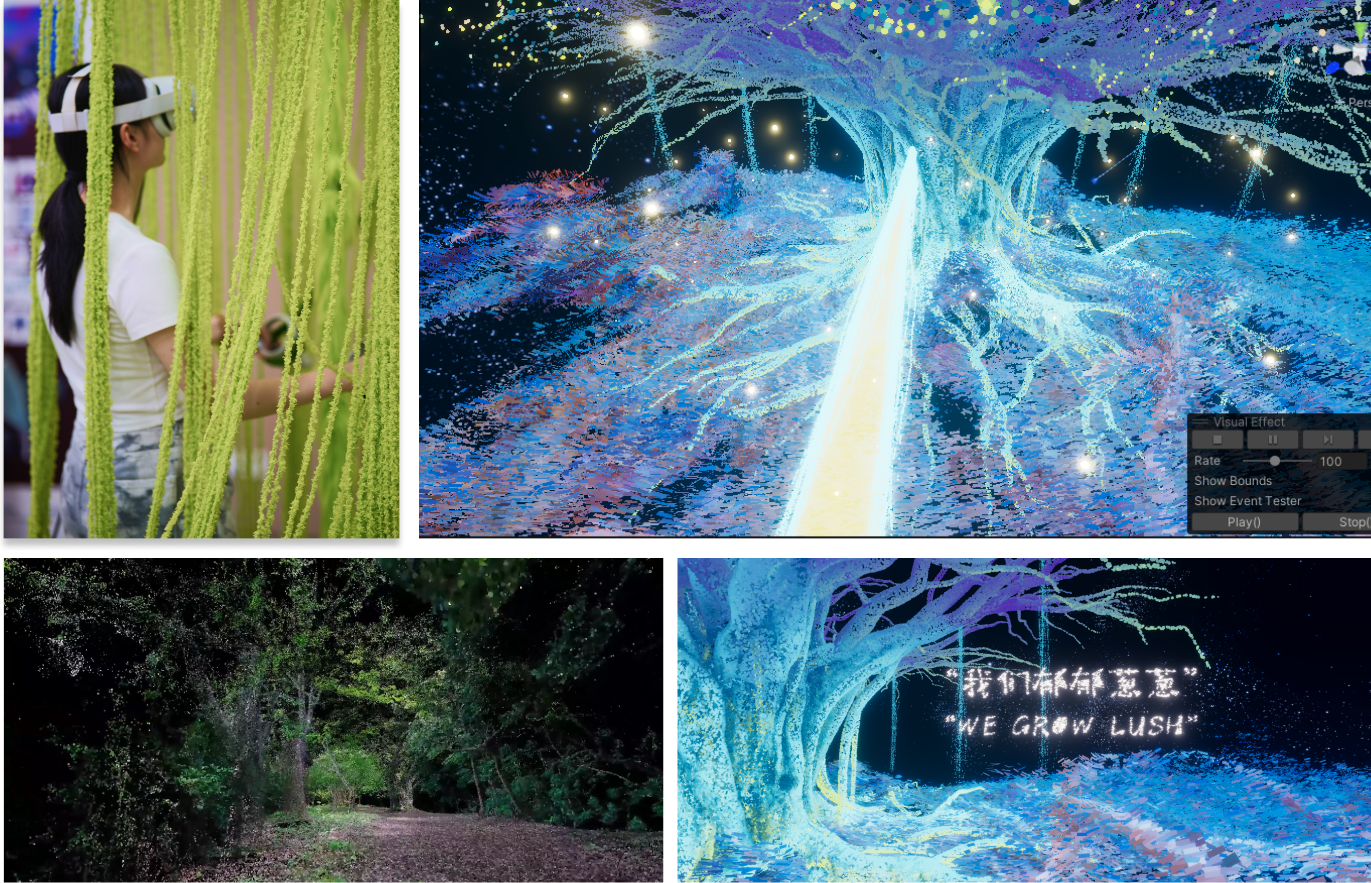
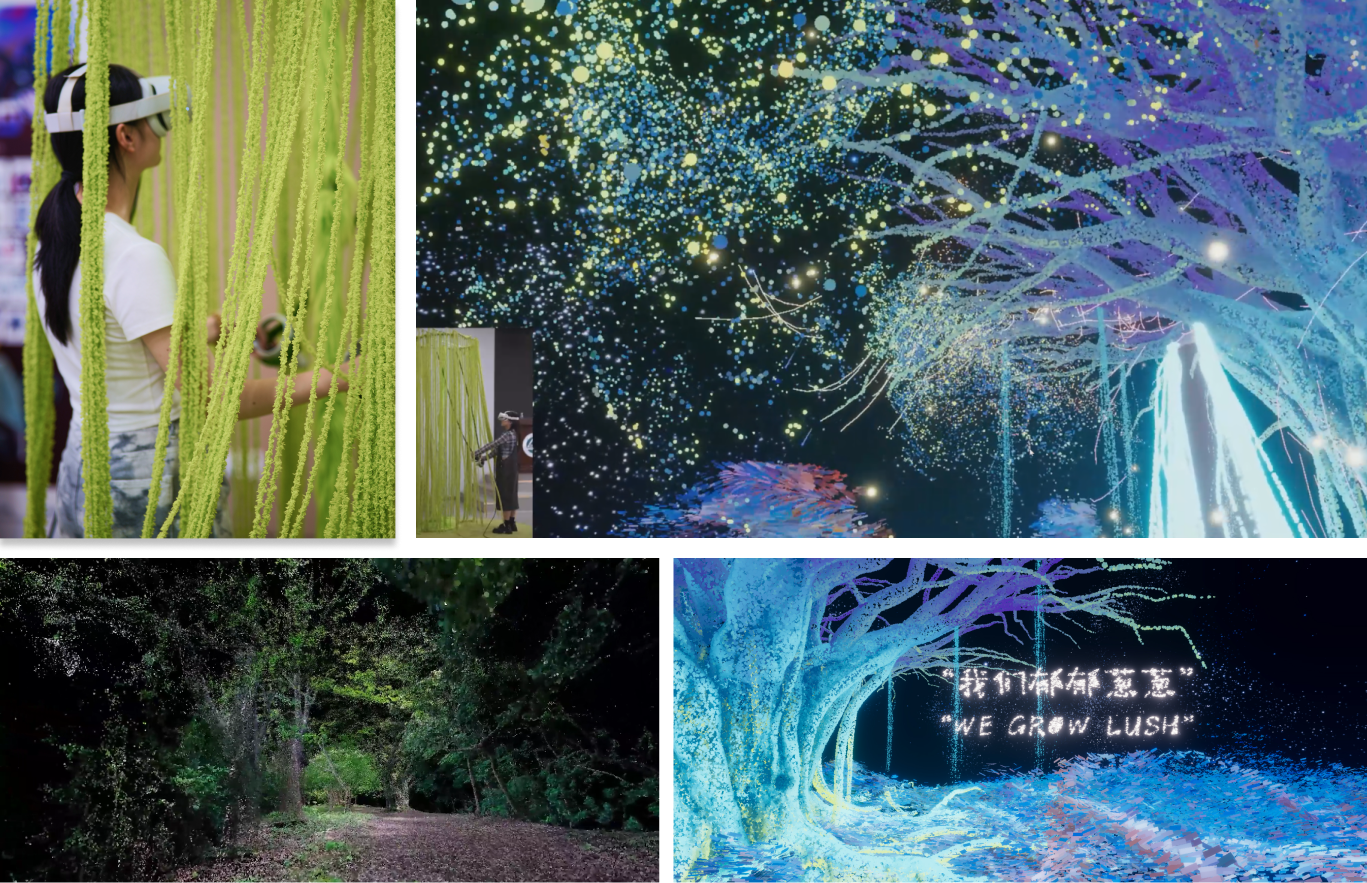
1

diff --git a/projects/game.html b/projects/game.html
@@ -74,6 +74,11 @@
                         <h2>Interaction Mechanism</h2>
                         <br>
                         <img src="../source/treefriend3.png" alt="interaction Mechanism">
+                        <br>
+                        <br>
+                        <h2>Show</h2>
+                        <br>
+                        <img src="../source/treefriend4.png" alt="show">
                     </div>
 
 
